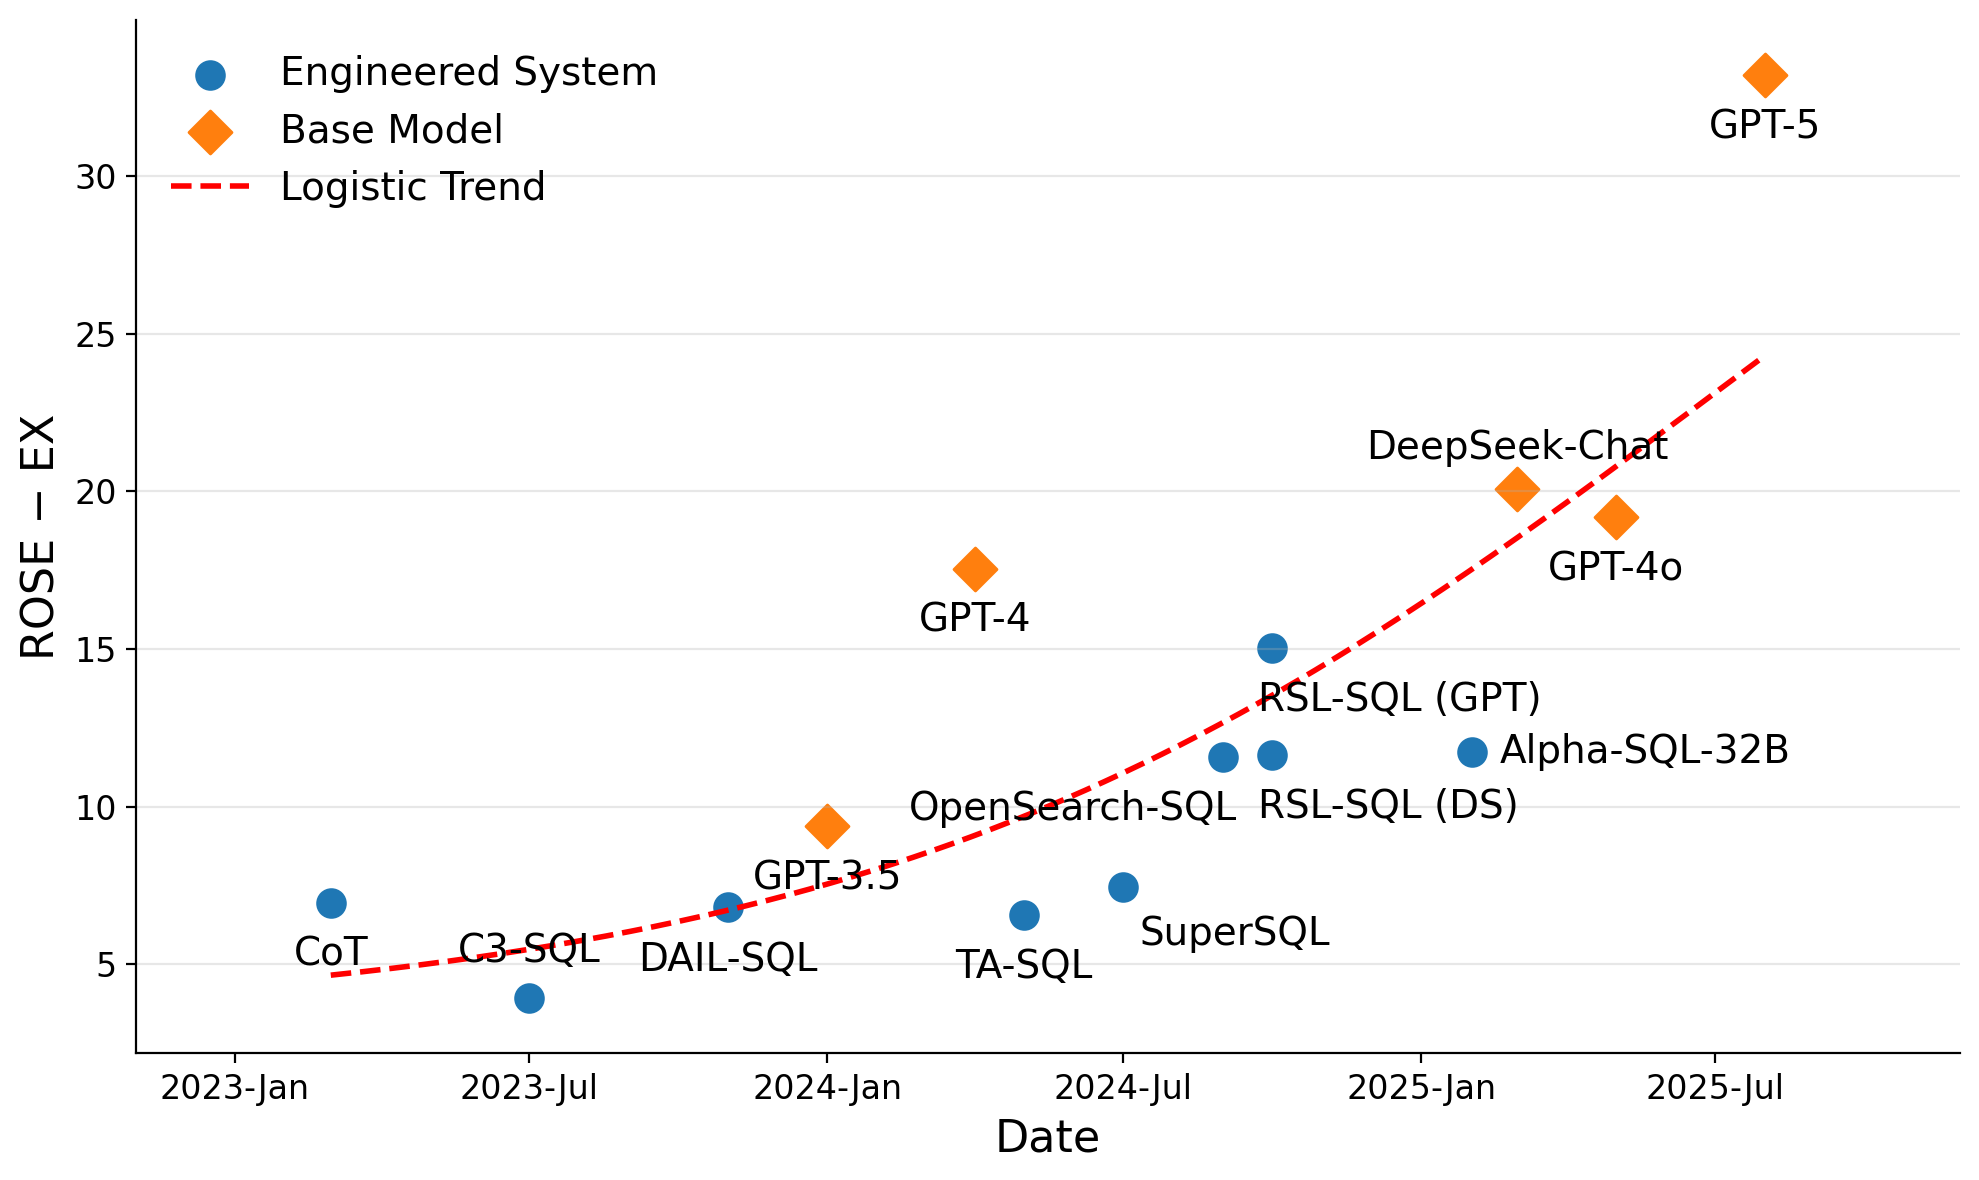
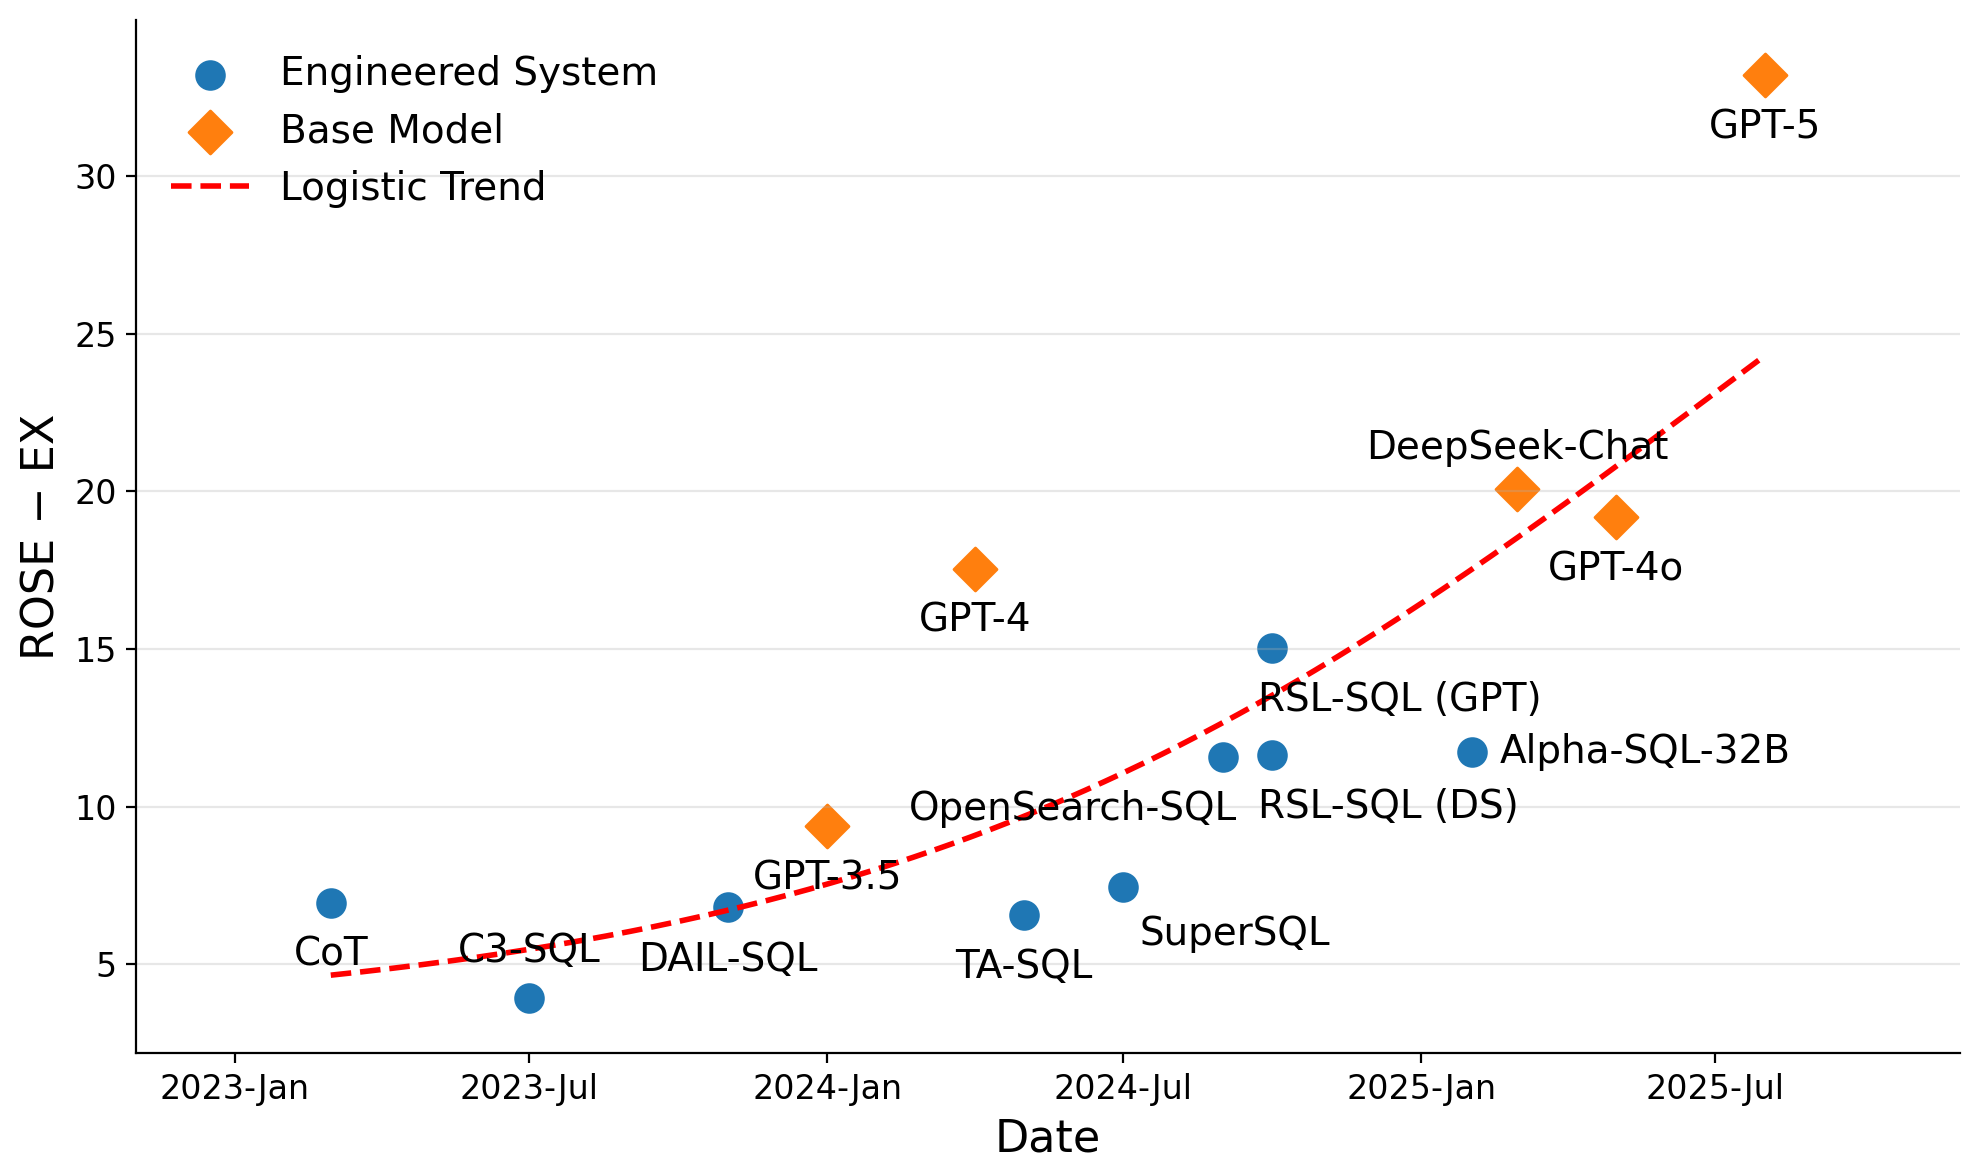
Refine profile and selected publications

diff --git a/_publications/2026/2026-memforest.md b/_publications/2026/2026-memforest.md
@@ -1,7 +1,7 @@
 ---
 title:          "MemForest: An Efficient Agent Memory System with Hierarchical Temporal Indexing"
 date:           2026-05-16
-selected:       true
+selected:       false
 pub:            "Preprint"
 pub_date:       "2026"
 cover:          /assets/images/covers/memforest.png

diff --git a/_publications/2025/2025-self-monitoring-llm.md b/_publications/2025/2025-self-monitoring-llm.md
@@ -1,7 +1,7 @@
 ---
 title:          "Self-Monitoring Large Language Models for Click-Through Rate Prediction"
 date:           2025-08-01
-selected:       true
+selected:       false
 pub:            "ACM TOIS"
 pub_date:       "2025"
 abstract: >-
